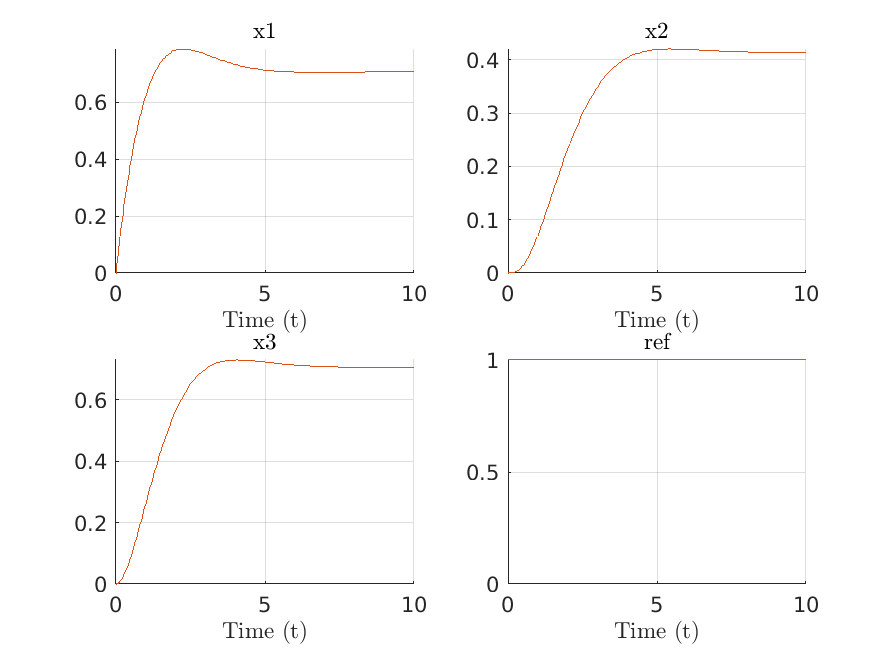
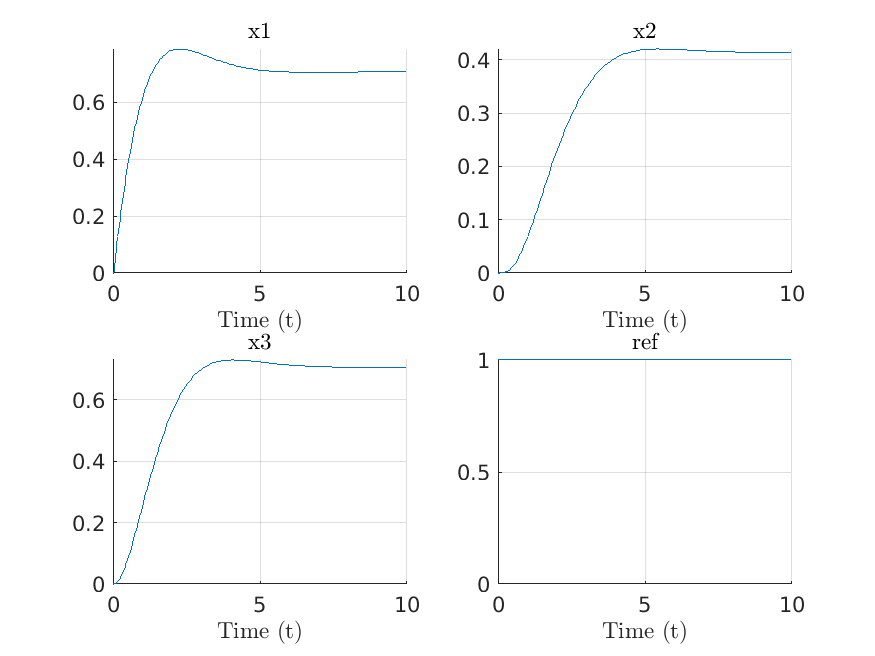
updated example

diff --git a/examples/ex0_readme/main.m b/examples/ex0_readme/main.m
@@ -4,7 +4,9 @@
 m = ModelClass.load('./model/model.mc');
 
 % Display variables and equations of the model.
+disp('Variables of the model:');
 m.vars
+disp('Equations of the model:');
 m.eqns
 
 %% 2. Simulation.
@@ -31,6 +33,7 @@ opt = odeset('AbsTol', 1e-8, 'RelTol', 1e-8);
 [out] = s.simulate(tspan,x0,p,opt);
 
 % Result of the simulation.
+disp('Result of the simulation:');
 out
 %% 3. Plot simulation result.
 

diff --git a/examples/ex0_readme/build/modelOdeFun.m b/examples/ex0_readme/build/modelOdeFun.m
@@ -1,6 +1,6 @@
 function [dxdt] =  modelOdeFun(t,x,p)
 %% MODELODEFUN Function that evaluates the ODEs of model.mc
-% This function was autogenerated with ModelClass v0.4.7 88821cd   -   Fernando Nóbel (fersann1@upv.es).
+% This function was autogenerated with ModelClass v0.4.7 ca7f972   -   Fernando Nóbel (fersann1@upv.es).
 %
 % param: t Current time in the simulation.
 %      : x Vector with states values.

diff --git a/examples/ex0_readme/build/modelDriverOdeFun.m b/examples/ex0_readme/build/modelDriverOdeFun.m
@@ -1,5 +1,5 @@
 %% Driver script for simulating the ODE function modelDriverOdeFun
-% This script was autogenerated with ModelClass v0.4.7 88821cd   -   Fernando Nóbel (fersann1@upv.es).
+% This script was autogenerated with ModelClass v0.4.7 ca7f972   -   Fernando Nóbel (fersann1@upv.es).
 
 clear all;
 close all;

diff --git a/examples/ex0_readme/build/model.m b/examples/ex0_readme/build/model.m
@@ -1,5 +1,5 @@
 classdef model < ModelClass
-	% This code was generated by ModelClass v0.4.7 88821cd   -   Fernando Nóbel (fersann1@upv.es)
+	% This code was generated by ModelClass v0.4.7 ca7f972   -   Fernando Nóbel (fersann1@upv.es)
 	methods
 		function [obj] = model(opts)
 			v = VariableClass(obj,'x1');
